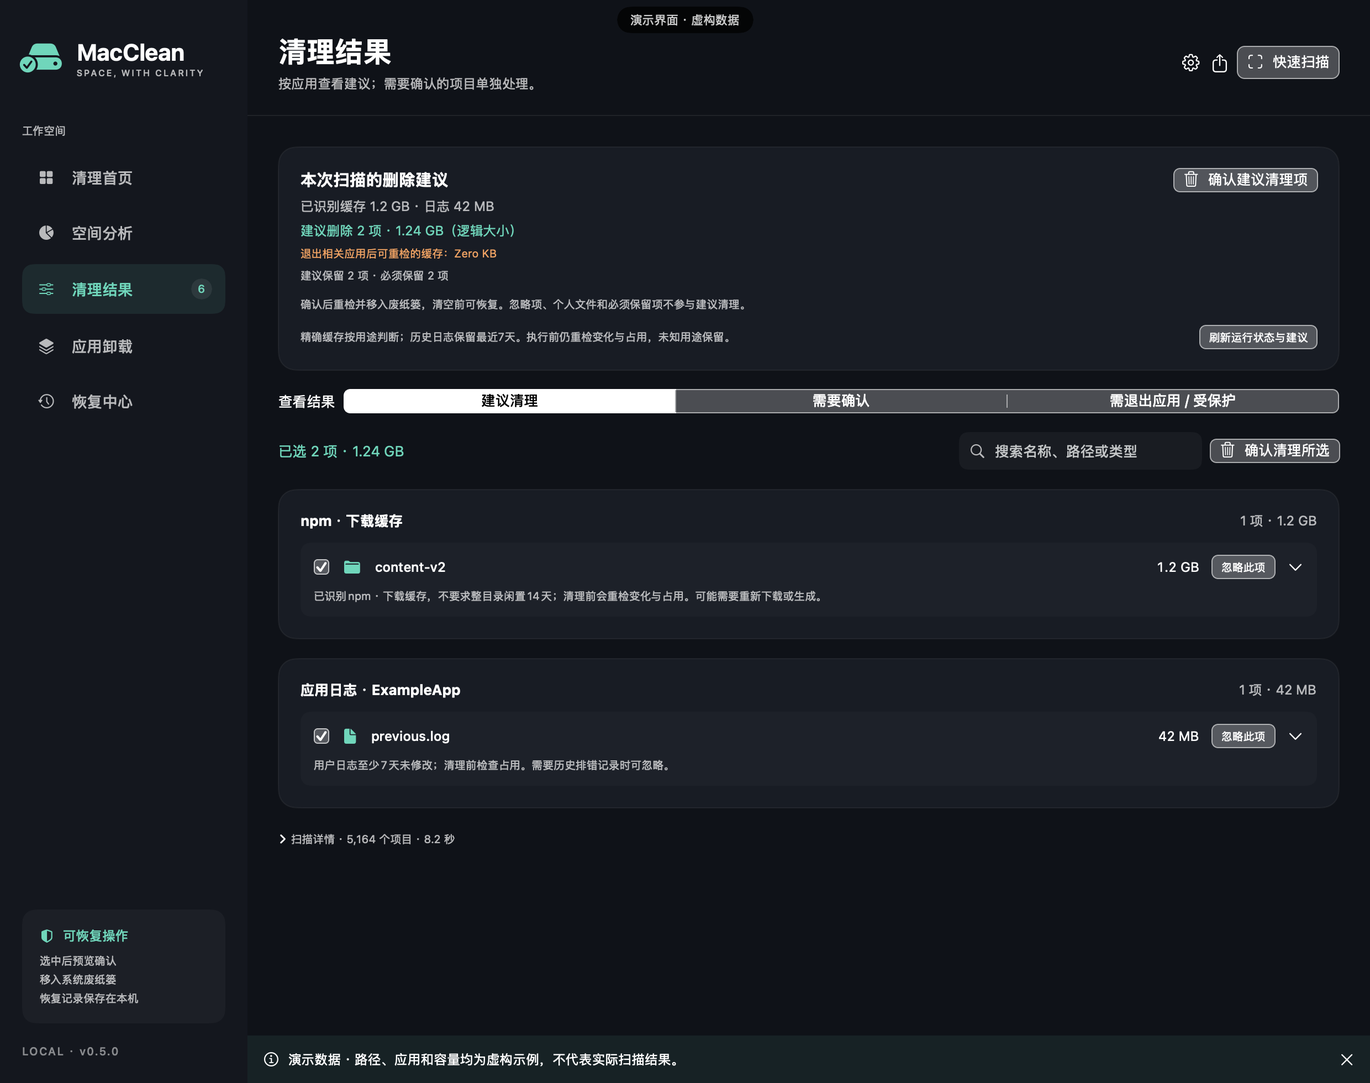
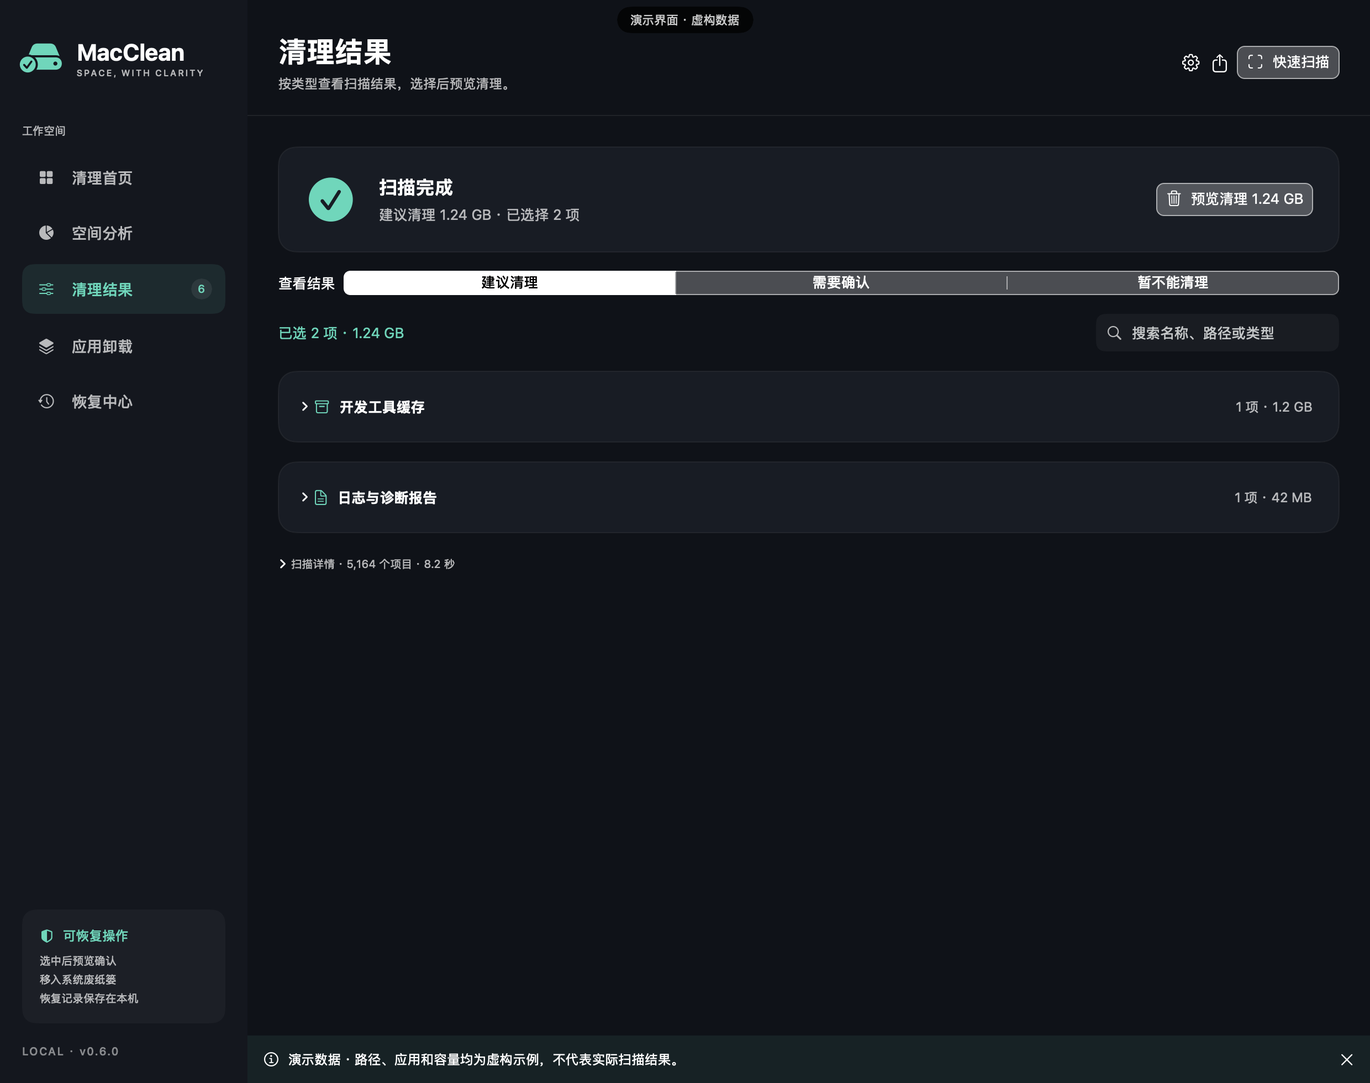
Release MacClean v0.6.0 with simplified cleaning flow

diff --git a/Sources/MacClean/ContentView.swift b/Sources/MacClean/ContentView.swift
@@ -85,7 +85,7 @@ struct ContentView: View {
                 Button("刷新记录", systemImage: "arrow.clockwise") { model.refreshHistory() }.buttonStyle(.bordered)
             } else if model.scanning {
                 Button("停止扫描", systemImage: "stop.fill") { model.cancel() }.buttonStyle(.bordered)
-            } else {
+            } else if model.page != .overview {
                 Button(model.page == .space ? "全盘空间分析" : "快速扫描", systemImage: "viewfinder") { model.scan() }.buttonStyle(.borderedProminent).foregroundStyle(canvas).controlSize(.large).disabled(model.busy || (model.page == .space && model.roots.isEmpty))
             }
         }.padding(.horizontal, 28).padding(.top, 30).padding(.bottom, 22)
@@ -106,7 +106,7 @@ struct ContentView: View {
             let disk = model.disk
             HStack {
                 VStack(alignment: .leading, spacing: 7) {
-                    Text("先清理能确认用途的缓存。").font(.system(size: 30, weight: .bold))
+                    Text("给 Mac 腾点空间").font(.system(size: 30, weight: .bold))
                     Text("\(bytes(disk.free)) 可用 / \(bytes(disk.total)) 总容量").foregroundStyle(.secondary)
                 }
                 Spacer()
@@ -114,7 +114,7 @@ struct ContentView: View {
             }
             VStack(alignment: .leading, spacing: 18) {
                 Label("快速清理", systemImage: "sparkles").font(.title2.bold())
-                Text("检查浏览器缓存、npm / pip 下载缓存、Xcode 构建缓存及旧日志。不先遍历整个硬盘，不扫描文档目录、照片资料库或聊天数据库。").foregroundStyle(.secondary)
+                Text("检查应用缓存、浏览器缓存和日志，扫描后选择要清理的内容。").foregroundStyle(.secondary)
                 HStack {
                     Button(model.report == nil ? "开始快速扫描" : "重新快速扫描", systemImage: "magnifyingglass") { model.scan() }
                         .buttonStyle(.borderedProminent).controlSize(.large).foregroundStyle(canvas).disabled(model.scanning || model.busy)
@@ -143,7 +143,7 @@ struct ContentView: View {
                     Button("管理已安装应用") { model.page = .apps }
                 }.padding(24).frame(maxWidth: .infinity, alignment: .leading).card()
             }
-            Text("首次访问受保护内容需系统授权；固定签名及已保存目录授权继续沿用。扫描失败的目录可以单独查看原因。").font(.caption).foregroundStyle(.secondary)
+            Text("扫描不会删除文件。清理前可查看明细并确认。").font(.caption).foregroundStyle(.secondary)
         }
     }
 }
@@ -314,33 +314,50 @@ struct RulesView: View {
     var body: some View {
         if let report = model.report {
             VStack(alignment: .leading, spacing: 18) {
-                RecommendationSummary(model: model)
+                HStack(alignment: .center, spacing: 20) {
+                    Image(systemName: "checkmark.circle.fill").font(.system(size: 40)).foregroundStyle(accent)
+                    VStack(alignment: .leading, spacing: 6) {
+                        Text(report.cancelled ? "扫描已停止" : report.isComplete ? "扫描完成" : "扫描完成 · 部分内容未覆盖").font(.title2.bold())
+                        Text("建议清理 \(bytes(model.recommendedSize)) · 已选择 \(model.selected.count) 项").foregroundStyle(.secondary)
+                        if model.deferredCacheSize > 0 { Text("\(bytes(model.deferredCacheSize)) 需退出相关应用后重新检查").font(.caption).foregroundStyle(.orange) }
+                    }
+                    Spacer()
+                    Button("预览清理 \(bytes(model.selectedSize))", systemImage: "trash") { model.planRules() }
+                        .buttonStyle(.borderedProminent).controlSize(.large).foregroundStyle(canvas)
+                        .disabled(model.selected.isEmpty || model.busy || model.scanning || model.stale || !model.keepReady || report.cancelled)
+                }.padding(24).card()
                 Picker("查看结果", selection: $model.riskFilter) {
                     Text("建议清理").tag(AdviceDecision.delete.rawValue)
                     Text("需要确认").tag(AdviceDecision.keep.rawValue)
-                    Text("需退出应用 / 受保护").tag(AdviceDecision.required.rawValue)
+                    Text("暂不能清理").tag(AdviceDecision.required.rawValue)
                 }.pickerStyle(.segmented)
                 HStack {
                     Text("已选 \(model.selected.count) 项 · \(bytes(model.selectedSize))").foregroundStyle(accent)
                     Spacer()
                     SearchField(text: $model.query)
-                    Button("确认清理所选", systemImage: "trash") { model.planRules() }
-                        .buttonStyle(.borderedProminent).foregroundStyle(canvas)
-                        .disabled(model.selected.isEmpty || model.busy || model.scanning || model.stale)
+                    if model.riskFilter == AdviceDecision.required.rawValue {
+                        Button("已退出应用，重新检查") { model.refreshRecommendations() }.disabled(model.busy || model.scanning)
+                    }
                 }
                 let visible = model.filtered
-                let groups = Dictionary(grouping: visible, by: { model.cleanupGroup($0) })
+                let groups = Dictionary(grouping: visible, by: { model.cleanupCategory($0) })
                 LazyVStack(spacing: 18) {
-                    ForEach(groups.keys.sorted(), id: \.self) { name in
+                    ForEach(groups.keys.sorted { a, b in
+                        (groups[a] ?? []).reduce(Int64(0)) { $0 + $1.item.logicalSize } > (groups[b] ?? []).reduce(Int64(0)) { $0 + $1.item.logicalSize }
+                    }, id: \.self) { name in
                         let items = groups[name] ?? []
                         VStack(alignment: .leading, spacing: 12) {
-                            HStack {
-                                Text(name).font(.headline)
-                                Spacer()
-                                Text("\(items.count) 项 · \(bytes(items.reduce(Int64(0)) { $0 + $1.item.logicalSize }))").font(.callout).foregroundStyle(.secondary)
+                            DisclosureGroup {
+                                ForEach(items.prefix(limit)) { candidate in CleanupRow(model: model, candidate: candidate) }
+                                if items.count > limit { Button("显示更多") { limit += 100 } }
+                            } label: {
+                                HStack {
+                                    Image(systemName: name.contains("日志") ? "doc.text" : name.contains("浏览器") ? "globe" : "archivebox").foregroundStyle(accent)
+                                    Text(name).font(.headline)
+                                    Spacer()
+                                    Text("\(items.count) 项 · \(bytes(items.reduce(Int64(0)) { $0 + $1.item.logicalSize }))").font(.callout).foregroundStyle(.secondary)
+                                }
                             }
-                            ForEach(items.prefix(limit)) { candidate in CleanupRow(model: model, candidate: candidate) }
-                            if items.count > limit { Button("显示更多") { limit += 100 } }
                         }.padding(20).card()
                     }
                 }
@@ -371,7 +388,10 @@ private struct CleanupRow: View {
                     .toggleStyle(.checkbox).labelsHidden()
                     .disabled(advice.decision == .required || model.busy || model.scanning || model.stale)
                 Image(systemName: candidate.item.icon).foregroundStyle(accent)
-                Text(candidate.item.name).font(.callout.weight(.medium)).lineLimit(1)
+                VStack(alignment: .leading, spacing: 3) {
+                    Text(model.cleanupGroup(candidate)).font(.callout.weight(.medium)).lineLimit(1)
+                    Text(candidate.item.name).font(.caption).foregroundStyle(.secondary).lineLimit(1)
+                }
                 Spacer()
                 Text(bytes(candidate.item.logicalSize)).font(.callout.monospacedDigit())
                 Button(kept ? "取消忽略" : "忽略此项") { model.setChoice(kept ? .automatic : .keep, for: candidate) }

diff --git a/Sources/MacClean/CleanerModel.swift b/Sources/MacClean/CleanerModel.swift
@@ -10,7 +10,7 @@ enum Page: String, CaseIterable {
         switch self {
         case .overview: "检查常见缓存和旧日志，确认后再清理。"
         case .space: "递归统计真实文件大小，逐层深入占用最多的目录。"
-        case .rules: "按应用查看建议；需要确认的项目单独处理。"
+        case .rules: "按类型查看扫描结果，选择后预览清理。"
         case .apps: "预览应用本体和按 Bundle ID 匹配的关联文件。"
         case .history: "记录每次操作，并从系统废纸篓恢复到原位置。"
         }
@@ -66,6 +66,15 @@ enum Page: String, CaseIterable {
     private var directoryGrants: [String: DirectoryGrant] = [:]
     var candidates: [Candidate] { report?.candidates ?? [] }
     func cleanupGroup(_ candidate: Candidate) -> String { QuickCleaning.owner(candidate, home: advisor.home) }
+    func cleanupCategory(_ candidate: Candidate) -> String {
+        let path = candidate.item.path
+        if QuickCleaning.isLog(candidate.item, home: advisor.home) || candidate.category.contains("日志") { return "日志与诊断报告" }
+        if candidate.category == "更新安装包" { return "更新安装包" }
+        if QuickCleaning.isBrowserCache(path, home: advisor.home) || path.contains("com.google.Chrome") || path.contains("Microsoft Edge") || path.contains("Brave") || path.contains("firefox") { return "浏览器缓存" }
+        if path.contains("/.npm/") || path.contains("/pip/") || path.contains("/node-gyp/") || path.contains("/Xcode/") { return "开发工具缓存" }
+        if candidate.risk == .regenerable || candidate.category.contains("缓存") { return "应用缓存" }
+        return "其他需要确认的文件"
+    }
     var filtered: [Candidate] {
         candidates.filter { (category == "全部" || $0.category == category) && (riskFilter == "全部" || recommendation($0).decision.rawValue == riskFilter) && (query.isEmpty || $0.item.path.localizedCaseInsensitiveContains(query) || $0.item.type.contains(query)) }
     }

diff --git a/README.md b/README.md
@@ -4,13 +4,15 @@
 
 MacClean 是一个用 SwiftUI 构建的原生 macOS 空间分析与清理工具。它帮你看清文件、目录和应用的占用，给出清理候选及判断依据，再由你选择要处理的项目。
 
-当前版本：**v0.5.0 · Apple Silicon 预览版**。提供源码、安装包及离线图文说明，尚未经过 Apple 公证。
+当前版本：**v0.6.0 · Apple Silicon 预览版**。提供源码、安装包及离线图文说明，尚未经过 Apple 公证。
+
+v0.6 简化清理流程：扫描后先看建议清理总量，按缓存、日志等类型展开明细，再预览已选项目。扫描未覆盖的部分会明确提示。
 
 v0.5 按精确用途判断浏览器、Codex/豆包网页缓存、macOS pip、npm 及 node-gyp 缓存，不再要求这些明确可再生成的子目录整整14天无写入。运行中的相关应用仍会拦截，执行前重检与占用检查仍保留。所有可识别日志都展示，用户日志默认保留最近7天，系统日志只读；Trae 更新安装包单独列出，需手动核对是否仍待安装。“已识别缓存”与“当前建议清理”“退出应用后检查”分别统计，不承诺识别容量都可立即删除。
 
 v0.4 首页默认快速清理：定向检查常见缓存和日志，按应用归组，建议项默认勾选，确认后重检再移入废纸篓。全盘空间分析为独立入口、独立报告，不覆盖清理结果。浏览器只新增精确缓存子目录规则，不把整个用户配置目录当作垃圾；近期写入及运行状态保护仍保留。本版暂不清理微信聊天附件，也不自动清理密码、数据库或模型。
 
-[下载 v0.5.0](https://github.com/daxiangnaoyang/MacClean/releases/tag/v0.5.0) · [安装说明](docs/INSTALL.md) · [完整图文说明](docs/GUIDE.md) · [隐私与清理边界](docs/PRIVACY.md) · [更新记录](CHANGELOG.md)
+[下载 v0.6.0](https://github.com/daxiangnaoyang/MacClean/releases/tag/v0.6.0) · [安装说明](docs/INSTALL.md) · [完整图文说明](docs/GUIDE.md) · [隐私与清理边界](docs/PRIVACY.md) · [更新记录](CHANGELOG.md)
 
 发行包为 **Apple Silicon（arm64）**，提供拖入 Applications 的 DMG 和应用 ZIP。本版使用 ad-hoc 签名，**未经过 Apple 公证**；Intel Mac 尚未提供安装包。
 
@@ -26,9 +28,9 @@ MacClean 把这些问题放进五个页面：
 
 | 页面 | 可以看到和操作的内容 |
 | --- | --- |
-| 总览 | 磁盘可用容量、已分析空间、缓存候选和目录分布 |
+| 清理首页 | 磁盘可用容量和快速扫描入口 |
 | 空间分析 | 逐层展开目录，查看文件数、逻辑大小与已分配空间；按类型跨目录筛选 |
-| 规则扫描 | 判断建议删除、建议保留和必须保留；可逐项选择，也可一键清理建议项 |
+| 清理结果 | 按类型查看建议清理、需要确认和暂不能清理的项目；选择后预览清理 |
 | 应用卸载 | 查看应用包大小，选择应用本体和精确匹配的关联文件 |
 | 恢复中心 | 查看逐项操作结果，将仍在系统废纸篓中的文件恢复到原位置 |
 
@@ -55,7 +57,7 @@ open MacClean.app
 
 构建脚本会在项目根目录生成或更新 `MacClean.app`，包含应用图标，并执行本地 ad-hoc 签名验证。预编译版本见 Releases；目前没有经过公证的安装包。
 
-如果桌面已经有同一 Bundle ID 的独立 `MacClean.app` 副本，构建脚本也会同步它；首次同步前会在 `.build/MacClean-desktop-before-update.zip` 中保留旧副本。不会替换不同标识的其他应用。
+如果桌面已经有同一 Bundle ID 的独立 `MacClean.app` 副本，构建脚本也会同步它；不会替换不同标识的其他应用。
 
 如果想放到桌面，可以在 Finder 中为 `MacClean.app` 创建替身，再将替身移到桌面。更新应用后，先完全退出旧进程，再重新打开。
 

diff --git a/docs/RELEASE-NOTES.md b/docs/RELEASE-NOTES.md
@@ -1,19 +1,19 @@
-# MacClean v0.5.0 · Apple Silicon 预览版
+# MacClean v0.6.0 · Apple Silicon 预览版
 
 原生 macOS 空间分析、保守清理建议、应用卸载和可恢复操作。源码按 MIT 许可证公开。
 
-本版将快速清理与全盘空间分析分开，按应用分组展示缓存和日志。精确可再生成缓存按用途判断，不统一等待14天；用户日志保留最近7天，系统日志只读。运行中的相关应用缓存暂缓，更新安装包需本人确认。建议删除、建议保留、必须保留三类判断保留，手动保留设置跨扫描保存。清理仅在本人确认后执行，重检变化与占用并移入废纸篓；扫描结束不会自动删除。
+本版简化清理流程：扫描后先显示建议容量，按浏览器缓存、应用缓存、开发工具缓存和日志等类型展开查看；选择后预览清理。未覆盖的范围明确提示。运行中的相关应用缓存暂缓，更新安装包需本人确认。清理仅在本人确认后执行，重检变化与占用并移入废纸篓；扫描结束不会自动删除。识别范围和安全判断沿用 v0.5.0，本版不新增重复文件或相似照片扫描。
 
 ## 下载安装
 
-- `MacClean-0.5.0-arm64.dmg`：打开后拖入 Applications。
-- `MacClean-0.5.0-arm64.app.zip`：解压后的应用与 DMG 版本相同。
-- `MacClean-0.5.0-docs.zip`：包含 README、全部说明图文、隐私边界、验收说明和许可证。
+- `MacClean-0.6.0-arm64.dmg`：打开后拖入 Applications。
+- `MacClean-0.6.0-arm64.app.zip`：解压后的应用与 DMG 版本相同。
+- `MacClean-0.6.0-docs.zip`：包含 README、全部说明图文、隐私边界、验收说明和许可证。
 - `SHA256SUMS.txt`：三个附件的完整性校验清单。
 
 **仅提供 Apple Silicon arm64。最低部署目标 macOS 14；跨设备和全部系统版本兼容性尚未验收。使用 ad-hoc 签名，未经过 Apple 公证，不是稳定发行版。**
 
-[安装说明](https://github.com/daxiangnaoyang/MacClean/blob/v0.5.0/docs/INSTALL.md) · [八张说明图与操作指南](https://github.com/daxiangnaoyang/MacClean/blob/v0.5.0/docs/GUIDE.md) · [隐私与清理边界](https://github.com/daxiangnaoyang/MacClean/blob/v0.5.0/docs/PRIVACY.md) · [验收范围](https://github.com/daxiangnaoyang/MacClean/blob/v0.5.0/VERIFICATION.md)
+[安装说明](https://github.com/daxiangnaoyang/MacClean/blob/v0.6.0/docs/INSTALL.md) · [八张说明图与操作指南](https://github.com/daxiangnaoyang/MacClean/blob/v0.6.0/docs/GUIDE.md) · [隐私与清理边界](https://github.com/daxiangnaoyang/MacClean/blob/v0.6.0/docs/PRIVACY.md) · [验收范围](https://github.com/daxiangnaoyang/MacClean/blob/v0.6.0/VERIFICATION.md)
 
 公开图片使用虚构演示数据；真实扫描报告、应用清单、历史记录和本机备份不随发布上传。
 

diff --git a/docs/INSTALL.md b/docs/INSTALL.md
@@ -2,13 +2,13 @@
 
 ## 下载与适用范围
 
-从 [v0.5.0 Releases](https://github.com/daxiangnaoyang/MacClean/releases/tag/v0.5.0) 下载：
+从 [v0.6.0 Releases](https://github.com/daxiangnaoyang/MacClean/releases/tag/v0.6.0) 下载：
 
 | 文件 | 用途 |
 | --- | --- |
-| `MacClean-0.5.0-arm64.dmg` | 拖放式安装，内含应用及 Applications 入口 |
-| `MacClean-0.5.0-arm64.app.zip` | 解压后获得同一版本应用 |
-| `MacClean-0.5.0-docs.zip` | 可离线阅读的全部说明图文 |
+| `MacClean-0.6.0-arm64.dmg` | 拖放式安装，内含应用及 Applications 入口 |
+| `MacClean-0.6.0-arm64.app.zip` | 解压后获得同一版本应用 |
+| `MacClean-0.6.0-docs.zip` | 可离线阅读的全部说明图文 |
 | `SHA256SUMS.txt` | 下载文件完整性校验 |
 
 要求 Apple Silicon Mac（M 系列芯片）。项目最低部署目标为 macOS 14，未在所有 macOS 版本上验证；Intel 未提供预编译包。无需安装 Swift 或 Node 即可使用发行应用。
@@ -30,7 +30,7 @@
 
 ## 权限与扫描
 
-公开 v0.5.0 使用 ad-hoc 签名，不包含开发机器的本机证书。从固定证书本地版换到公开包时，签名身份会变化，可能需要重新授权。请先退出应用，在“完全磁盘访问”中重新添加/启用你实际使用的 MacClean，再重新打开。公开包跨更新权限保留尚未验证，不承诺永久只授权一次。不要混用桌面、项目目录及 Applications 中的不同版本。
+公开 v0.6.0 使用 ad-hoc 签名，不包含开发机器的本机证书。从固定证书本地版换到公开包时，签名身份会变化，可能需要重新授权。请先退出应用，在“完全磁盘访问”中重新添加/启用你实际使用的 MacClean，再重新打开。公开包跨更新权限保留尚未验证，不承诺永久只授权一次。不要混用桌面、项目目录及 Applications 中的不同版本。
 
 新版扫描设置提供“授权主目录（记住）”，将选择的目录授权保存在本机，后续扫描和重启复用，不主动反复打开选择器。授权主目录不替代系统的完全磁盘访问。范围与参数也自动保存，默认全部层级、不限条目。
 
@@ -48,7 +48,7 @@
 shasum -a 256 -c SHA256SUMS.txt
 ```
 
-若只下载了其中一个安装包，可用 `shasum -a 256 MacClean-0.5.0-arm64.dmg`，与清单的对应行核对。缺少其他附件会显示读取失败，不等于已下载文件校验失败。
+若只下载了其中一个安装包，可用 `shasum -a 256 MacClean-0.6.0-arm64.dmg`，与清单的对应行核对。缺少其他附件会显示读取失败，不等于已下载文件校验失败。
 
 ## 卸载 MacClean 本身
 

diff --git a/docs/GUIDE.md b/docs/GUIDE.md
@@ -14,11 +14,11 @@
 
 ![空间分析](images/space.png)
 
-## 3. 规则扫描：建议有依据，决定留给你
+## 3. 清理结果：按类型查看后预览
 
 精确识别浏览器、Codex/豆包网页缓存、npm、pip 和 node-gyp 可再生成缓存，不统一要求14天无写入。用户历史日志默认保留最近7天，近期日志和 Trae 更新包需确认；系统日志只读。未知用途和个人文件默认保留。手动删除进入预览，不会扩大一键建议范围。
 
-点击“确认建议清理项”会重检文件变化、运行状态及占用，再将通过检查的项目移入废纸篓。不会在扫描后自动执行；失败或状态不明确的项目本次保留。
+结果先按缓存、日志等类型汇总，展开可查看所属应用及文件。点击“预览清理”查看已选项目，再确认执行；执行时重检文件变化、运行状态及占用，通过检查的项目移入废纸篓。不会在扫描后自动执行；失败或状态不明确的项目本次保留。
 
 ![规则扫描与一键建议](images/rules.png)
 

diff --git a/docs/RELEASE-CHECKLIST.md b/docs/RELEASE-CHECKLIST.md
@@ -1,10 +1,10 @@
-# v0.5.0 发布检查
+# v0.6.0 发布检查
 
 本清单用于源码与附件验收；真实运行报告只保留在本机。最终通过项目以发布提交中的状态为准。
 
 - [x] Release 构建与真实临时文件的一键清理/恢复集成测试。
 - [x] 运行中应用与开发工程保护改为运行时路径，不嵌入编译机器路径。
-- [x] 应用版本为 0.5.0、可执行文件为 arm64、ad-hoc strict 签名通过。
+- [x] 应用版本为 0.6.0、可执行文件为 arm64、ad-hoc strict 签名通过。
 - [x] 八张原生演示图目视检查；没有真实用户目录或应用清单。
 - [x] Markdown 本地图文链接有效，完整说明包可离线解压。
 - [x] 公开源码、二进制与打包文件中没有发现本机私有路径或凭据格式。

diff --git a/CHANGELOG.md b/CHANGELOG.md
@@ -1,5 +1,11 @@
 # 更新记录
 
+## v0.6.0 · 2026-11-12 · 清理流程预览版
+
+- 首页突出快速扫描；结果按浏览器缓存、应用缓存、开发工具缓存、日志等类型展示，展开后查看明细。
+- 合并清理入口，显示已选容量，预览确认后仍重检并移入废纸篓；未覆盖范围明确提示。
+- 桌面同步不再自动生成旧版备份。扫描识别范围和安全规则沿用 v0.5.0。
+
 ## v0.5.0 · 2026-10-15 · Apple Silicon 预览版
 
 - 精确缓存规则支持 Codex/豆包的 Default 与分区中的 Cache、Code Cache、GPUCache，macOS pip 的下载子目录、npm 内容/索引/临时缓存及 node-gyp 版本头文件。

diff --git a/VERIFICATION.md b/VERIFICATION.md
@@ -1,5 +1,11 @@
 # MacClean 公开验收记录
 
+## v0.6.0 · 2026-11-12
+
+- 界面使用类型汇总和统一的清理预览入口；真实桌面快速扫描验证分类结果与未覆盖范围提示。
+- 构建和清理、占用拦截、恢复集成测试使用生成的测试文件执行；未清理真实用户文件。
+- 公开图使用虚构数据，公开包使用 ad-hoc 签名，未经过 Apple 公证；扫描能力与 v0.5.0 相同。
+
 ## v0.5.0 · 发行检查 · 2026-10-15
 
 - 先复现明确浏览器缓存被14天门槛拦截的失败，再验证精确缓存按用途判断；既有变更检测、占用拦截和恢复测试通过。
